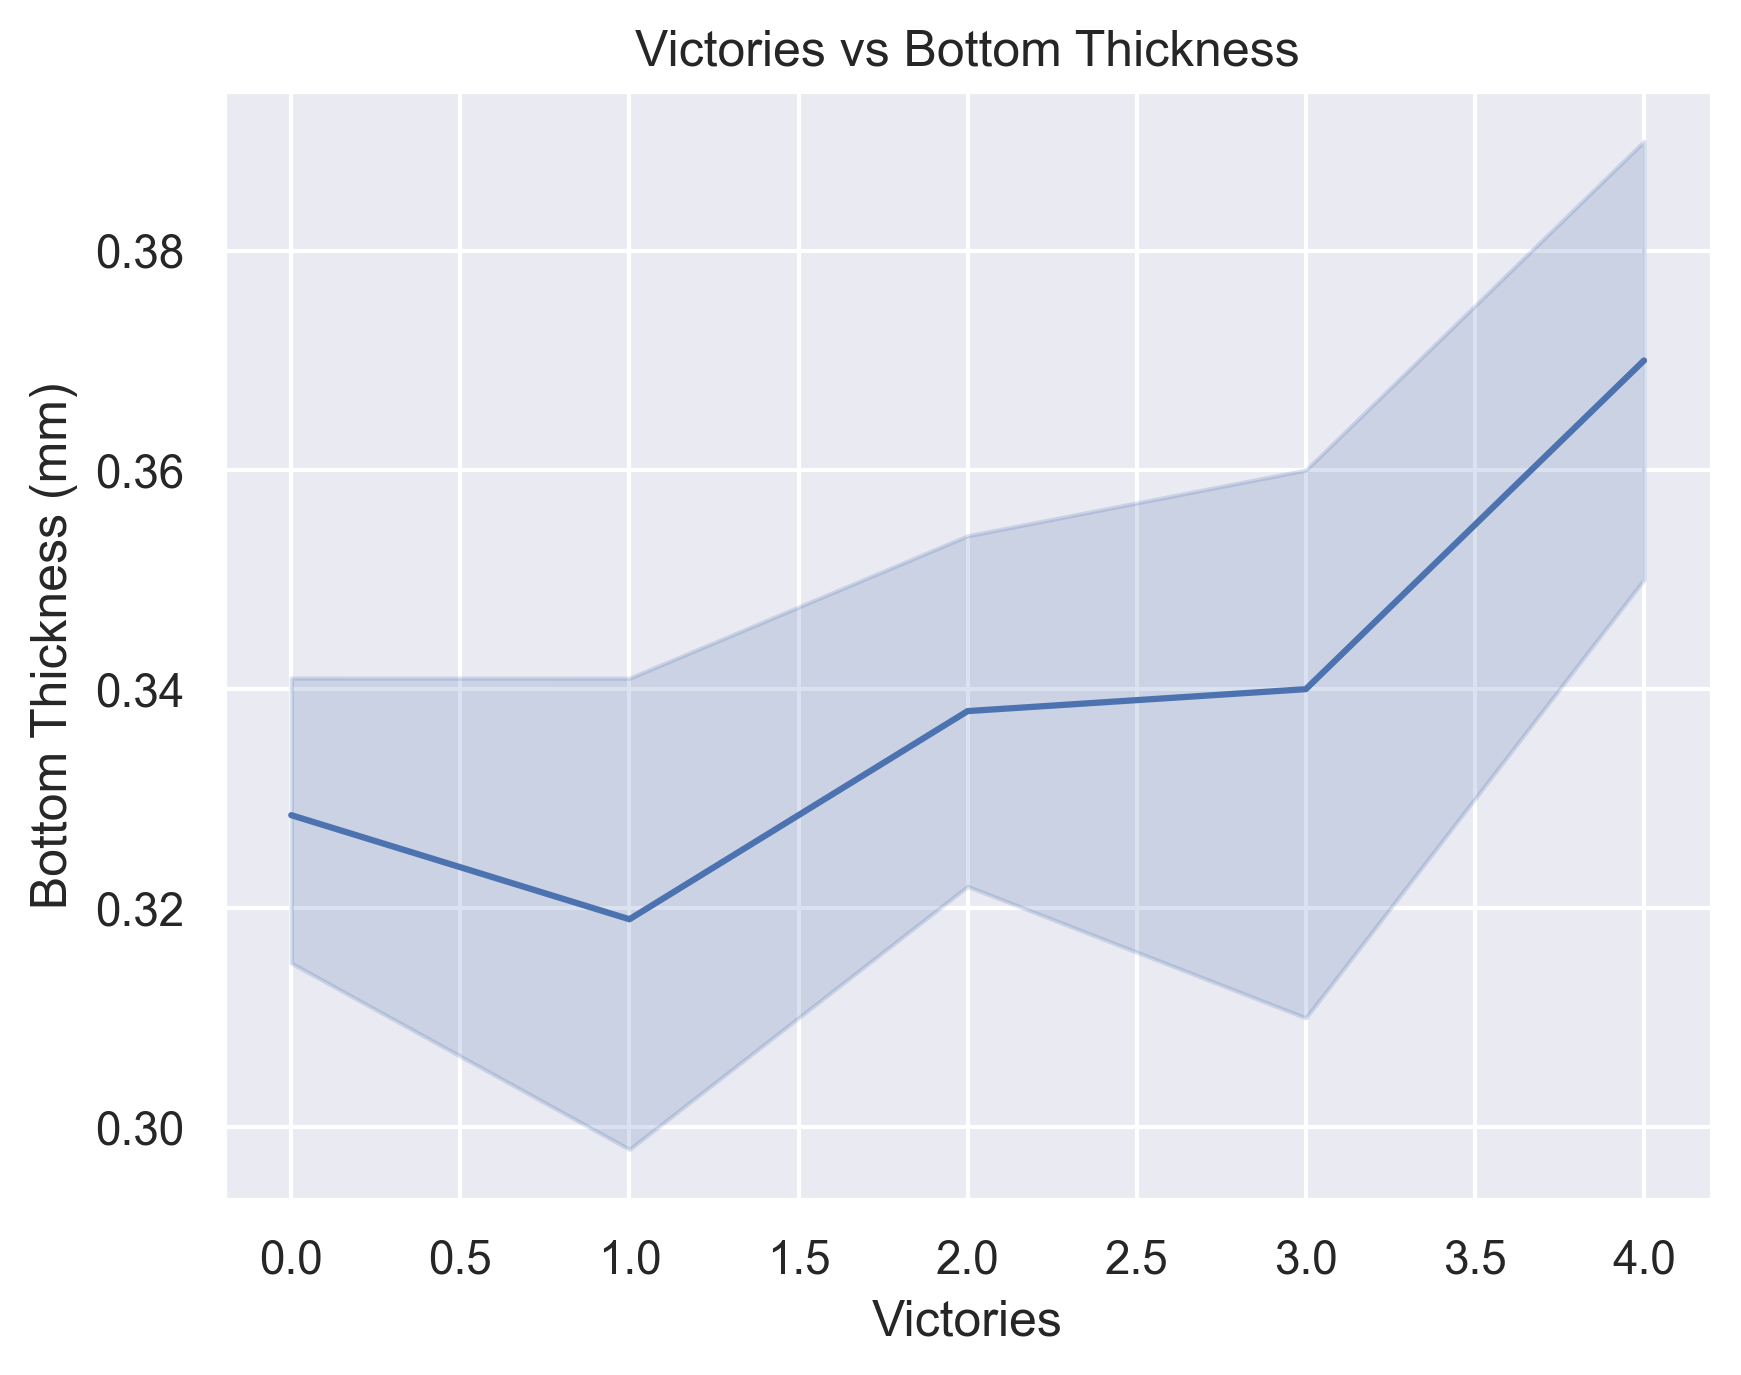
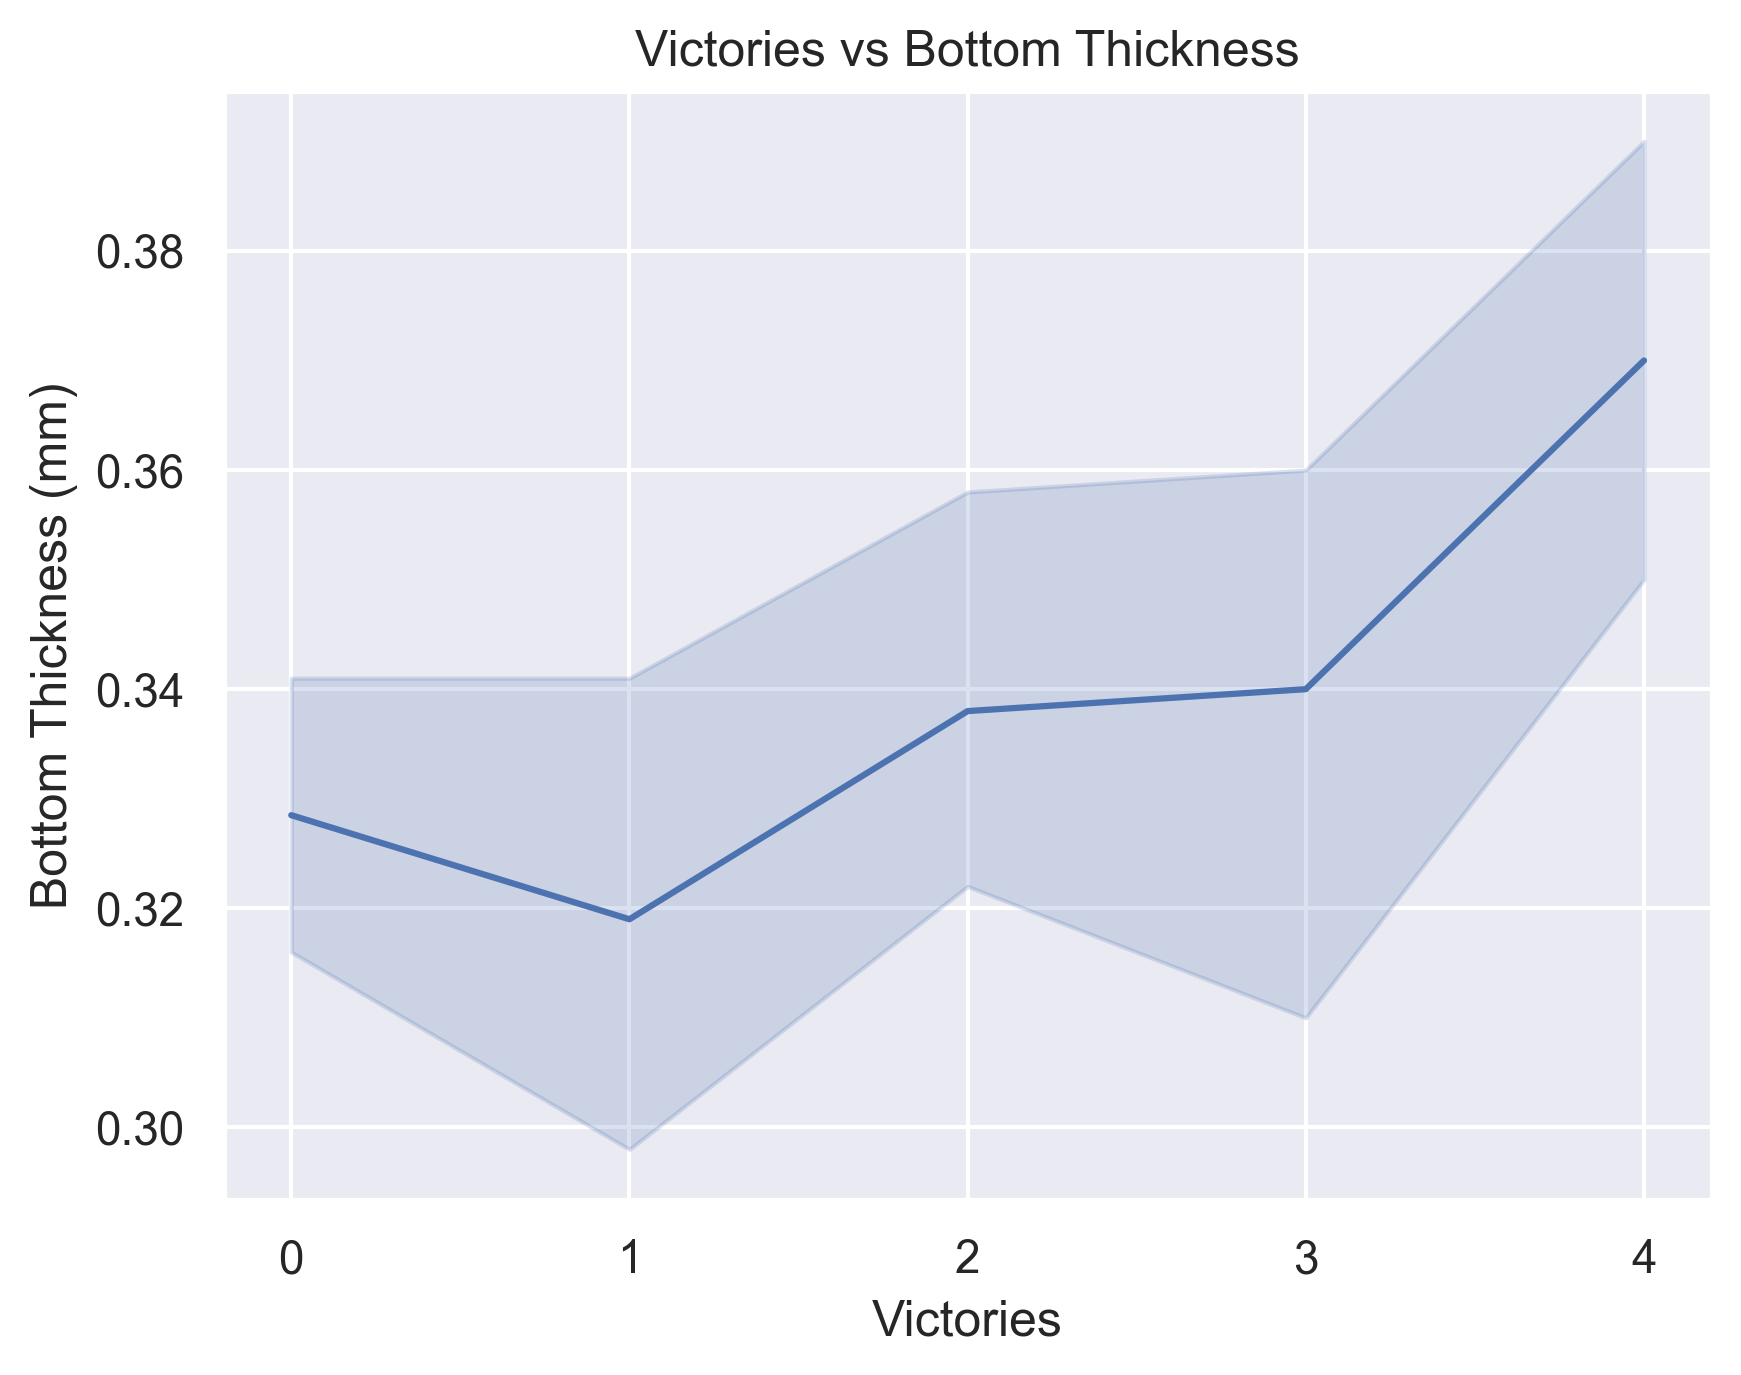
Changement graduation axe victoires

diff --git a/PlotDatas.py b/PlotDatas.py
@@ -1,3 +1,4 @@
+from matplotlib.ticker import MaxNLocator
 import pandas as pd
 import matplotlib.pyplot as plt
 import seaborn as sns
@@ -12,6 +13,7 @@ def PlotVicoryVsThicknes(data):
     sns.set_theme()
     fig, ax = plt.subplots()
     sns.lineplot(x='Victories', y='ShellThickness', data=data, ax=ax)
+    ax.xaxis.set_major_locator(MaxNLocator(integer=True))
     ax.set_title('Victories vs Shell Thickness')
     ax.set_xlabel('Victories')
     ax.set_ylabel('Shell Thickness (mm)')
@@ -52,13 +54,14 @@ def PlotVictoryVsOvoidity(data):
     """
     sns.set_theme()
     fig, ax = plt.subplots()
-    sns.histplot(x='Ovoidity',stat='Victories', data=data, ax=ax)
-    #ax.set_xlim(0, 3)
+    sns.lineplot(y='Ovoidity',x='Victories', data=data, ax=ax)
+    ax.xaxis.set_major_locator(MaxNLocator(integer=True))
+    ax.set_xlim(0, 3)
     ax.set_title('Victories vs Ovoidity')
     ax.set_ylabel('Victories')
     ax.set_xlabel('Ovoidity (Height/Width)')
-    plt.show()
-    #plt.savefig('VictoriesVsOvoidity.png', dpi=300, bbox_inches='tight')
+    #plt.show()
+    plt.savefig('VictoriesVsOvoidity.png', dpi=300, bbox_inches='tight')
   
 def PlotVictoryVsBubbleSize(data):
     """
@@ -69,6 +72,7 @@ def PlotVictoryVsBubbleSize(data):
     sns.set_theme()
     fig, ax = plt.subplots()
     sns.lineplot(x='Victories', y='Bubble', data=data, ax=ax)
+    ax.xaxis.set_major_locator(MaxNLocator(integer=True))
     ax.set_title('Victories vs Bubble Size')
     ax.set_xlabel('Victories')
     ax.set_ylabel('Bubble Size (mm)')
@@ -84,6 +88,7 @@ def PlotVictoryVsTopThickness(data):
     sns.set_theme()
     fig, ax = plt.subplots()
     sns.lineplot(x='Victories', y='Top', data=data, ax=ax)
+    ax.xaxis.set_major_locator(MaxNLocator(integer=True))
     ax.set_title('Victories vs Top Thickness')
     ax.set_xlabel('Victories')
     ax.set_ylabel('Top Thickness (mm)')
@@ -98,6 +103,7 @@ def PlotVictoryVsBottomThickness(data):
     sns.set_theme()
     fig, ax = plt.subplots()
     sns.lineplot(x='Victories', y='Bottom', data=data, ax=ax)
+    ax.xaxis.set_major_locator(MaxNLocator(integer=True))
     ax.set_title('Victories vs Bottom Thickness')
     ax.set_xlabel('Victories')
     ax.set_ylabel('Bottom Thickness (mm)')
@@ -112,6 +118,7 @@ def PlotVictoryVsMidThickness(data):
     sns.set_theme()
     fig, ax = plt.subplots()
     sns.lineplot(x='Victories', y='Mid', data=data, ax=ax)
+    ax.xaxis.set_major_locator(MaxNLocator(integer=True))
     ax.set_title('Victories vs Bottom Thickness')
     ax.set_xlabel('Victories')
     ax.set_ylabel('Mid Thickness (mm)')
@@ -183,7 +190,7 @@ def main():
     data = pd.read_csv('FPT_Eggs.csv')
     data_shell = pd.read_csv('ShellThickness.csv')
     dataTournament = pd.read_csv('Tournament.csv')
-    PlotVictoryVsTopThicknessError(data)
+    PlotVictoryVsTopThickness(data)
     
 if __name__ == '__main__':
     main()
